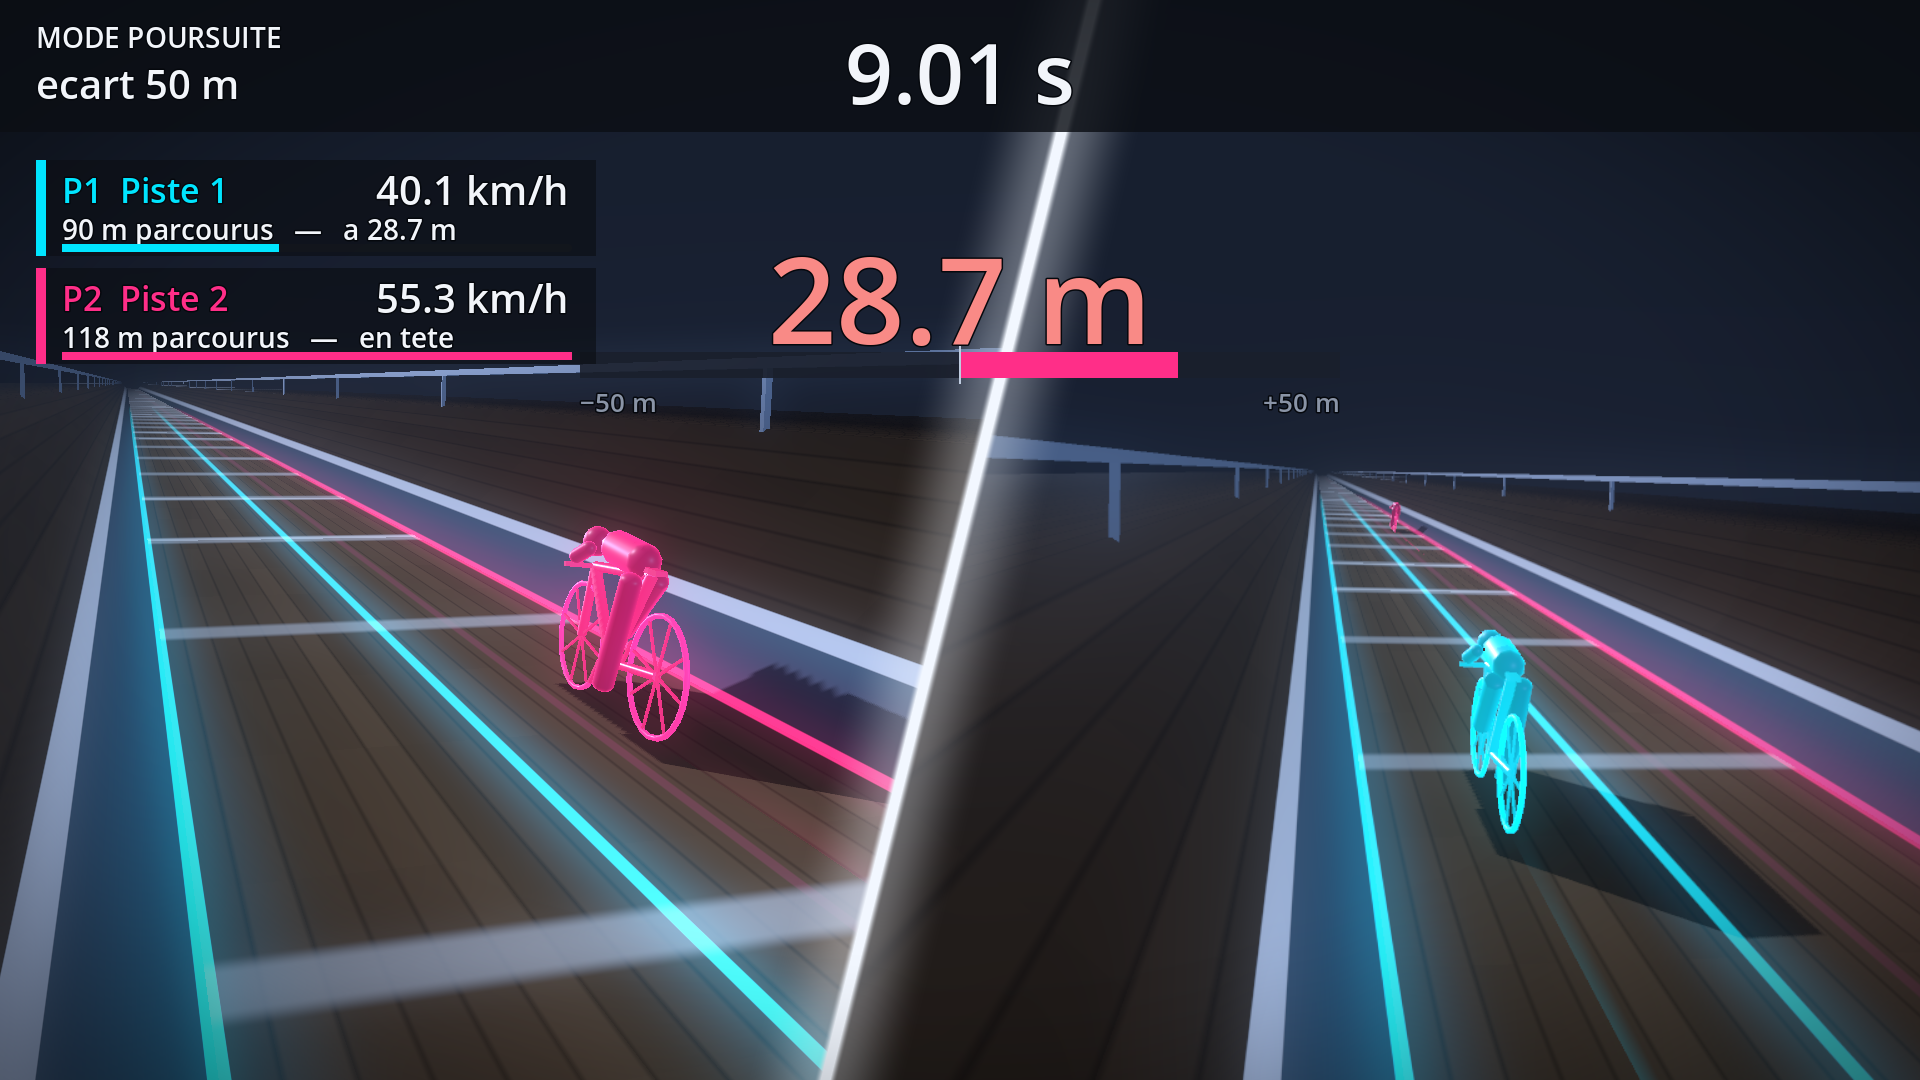
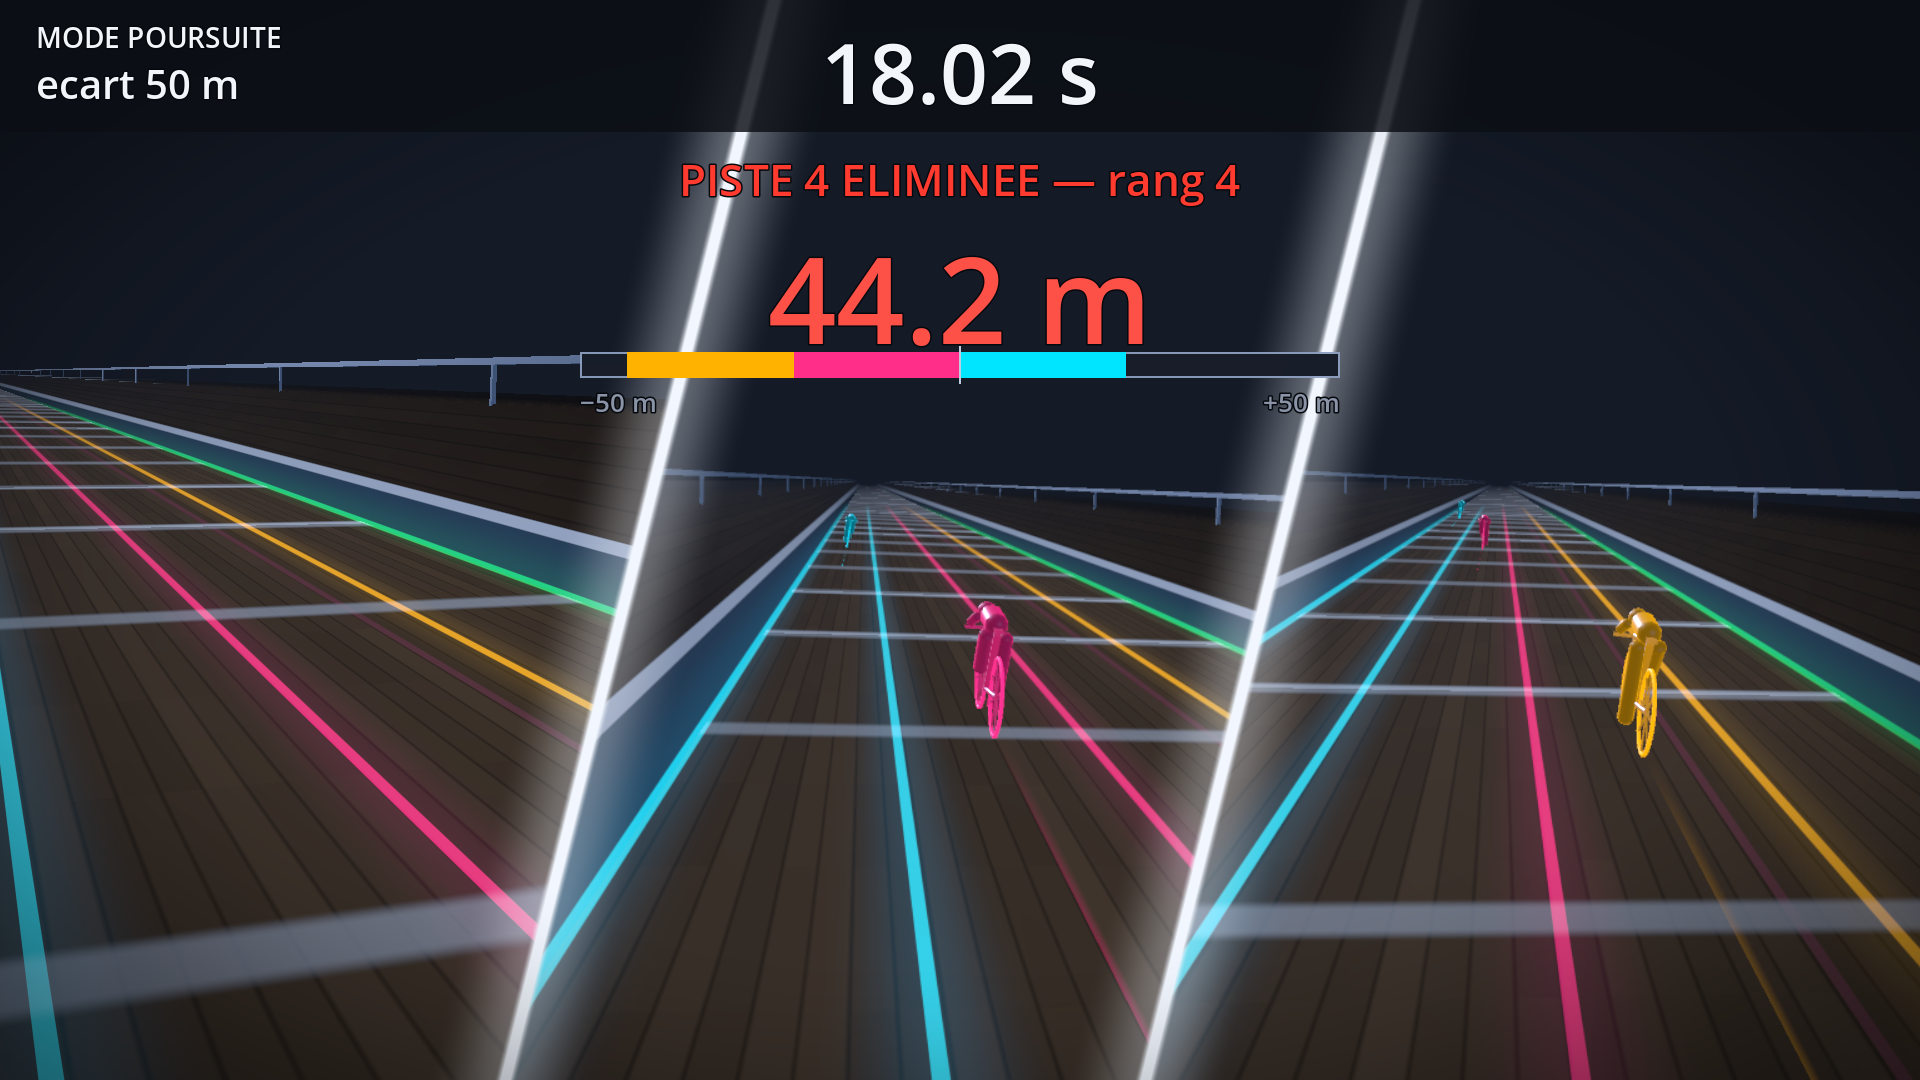
fix(lot5): poursuite — barre par poursuivant, cartes coupées, instant d'élimination
Retours de l'utilisateur sur le mode poursuite à quatre coureurs, tous fondés.

Barre de tension
Elle mesurait « tête moins queue ». Quand le dernier était éliminé, la queue
changeait, l'écart se refermait et la barre du premier REDESCENDAIT alors
qu'il n'avait pas ralenti ; les deuxième et troisième n'y figuraient pas. La
référence est maintenant le leader : à droite son avance sur le dauphin, à
gauche une barre par poursuivant — longueur = retard sur le leader, à −G il
est éliminé — superposées, la plus longue derrière. Une élimination retire une
barre sans déplacer les autres. Les éliminés sortent du calcul : leur distance
figée faisait croître l'écart affiché indéfiniment.

Les barres sont lissées à l'écran, cadencées par l'image et non par le boîtier :
alimentées brutes à 100 Hz par une distance quantifiée au tick, elles
tremblaient — même cause, même remède que le chiffre de vitesse.

Cartes coupées en poursuite
Elles formaient un bloc qui cachait la scène pour redire ce que la barre montre
déjà par ses couleurs. L'écart, sujet du mode, occupe le centre de l'écran seul
(docs/04 §5). La bannière se centre sur l'écran en poursuite, dans l'espace
libre à droite des cartes ailleurs — elle passait sur la première carte.

Instant d'élimination — une donnée manquante
Le moteur ne le mémorisait pas, et race_result.gd calculait la moyenne d'un
éliminé sur toute la course alors que sa distance est figée : toujours trop
[…]

diff --git a/tasks/lessons.md b/tasks/lessons.md
@@ -309,3 +309,15 @@
 * **Une case restée décochée n'est pas toujours du travail restant.** Les quatre pannes exigées par
   `docs/03` §5 existaient avec leurs tests ; seule la case manquait. L'inventaire doit vérifier le
   code, pas se fier au suivi.
+* **Une barre « tête moins queue » redescend quand la queue change.** À quatre coureurs, l'élimination
+  du dernier refermait l'écart et faisait rebaisser la barre du premier, qui n'avait pas ralenti ;
+  et les deuxième et troisième n'apparaissaient nulle part. La référence doit être le LEADER : une
+  barre par poursuivant, longueur = retard sur lui. Une élimination retire une barre sans déplacer
+  les autres. Vu par l'utilisateur, pas par moi.
+* **Un affichage qui redit ce qu'un autre montre déjà ne fait que cacher la scène.** Les cartes en
+  poursuite répétaient les couleurs de la barre. Coupées : l'écart, sujet du mode, a l'écran pour lui.
+* **Vérifier un mode jusqu'au podium fait remonter des bugs de DONNÉES.** Le moteur ne mémorisait pas
+  l'instant d'élimination ; la moyenne d'un éliminé se calculait sur toute la course alors que sa
+  distance est figée — toujours trop basse. Le commentaire du code disait pourtant l'intention
+  juste. Un test verrouille désormais que la moyenne s'arrête à l'élimination.
+* **Ce que l'écran affirme, le CSV doit le porter aussi.** `temps_ms` valait 0 pour un éliminé.
